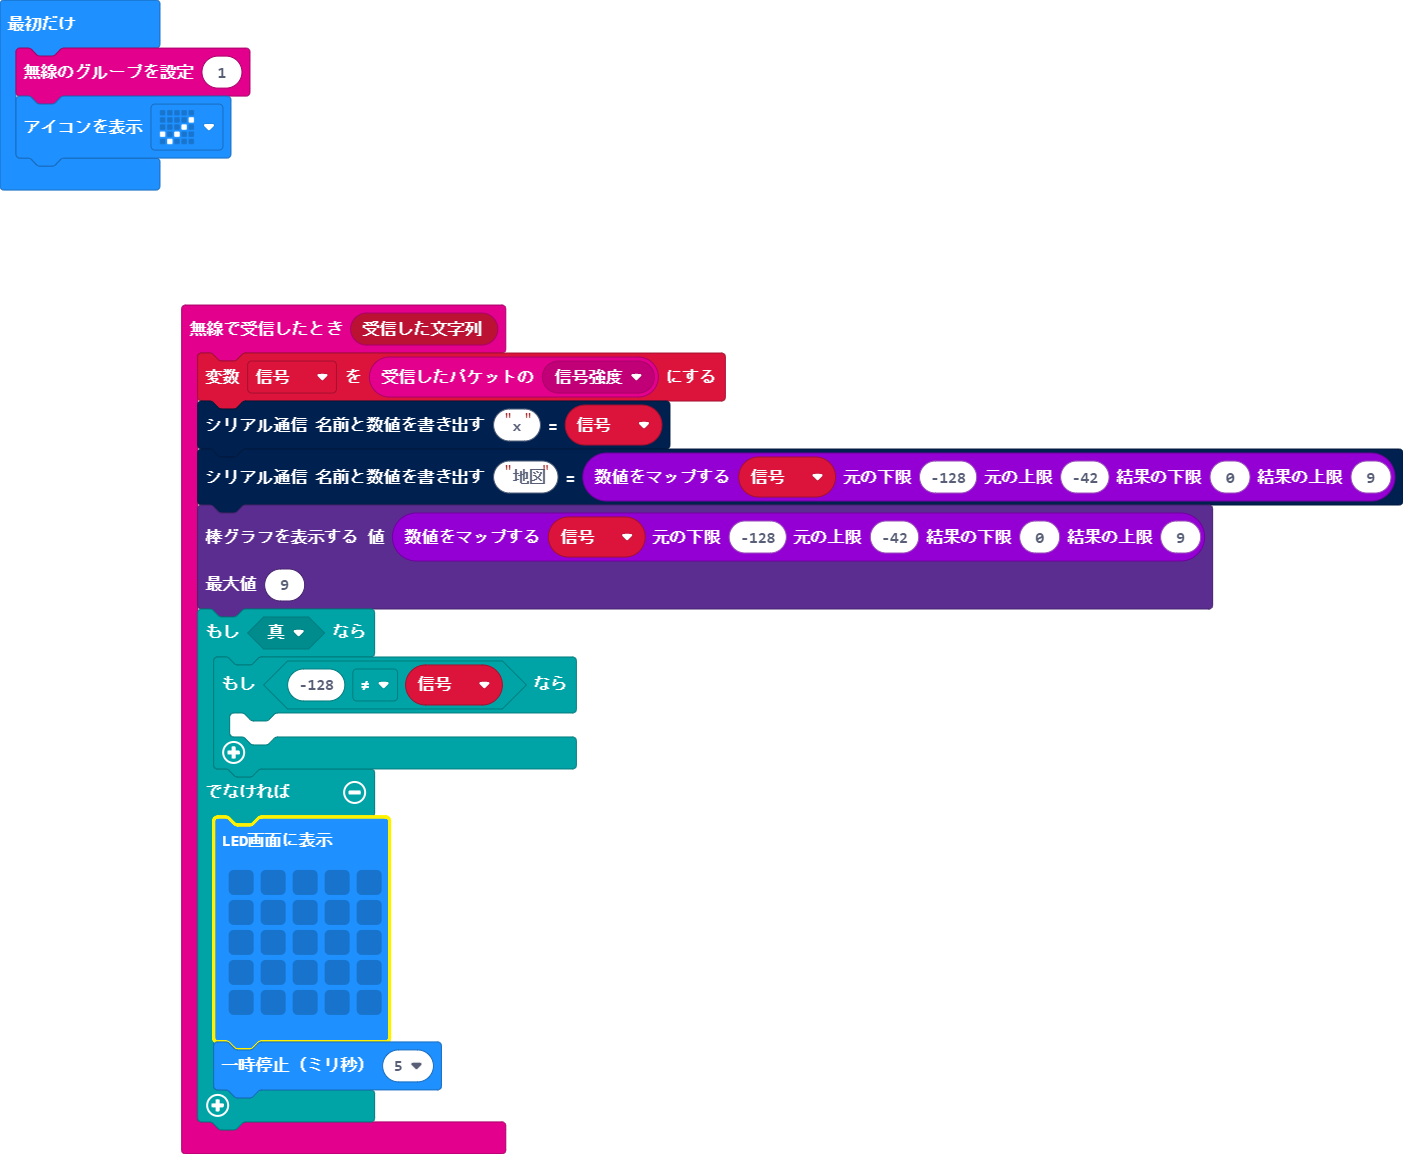
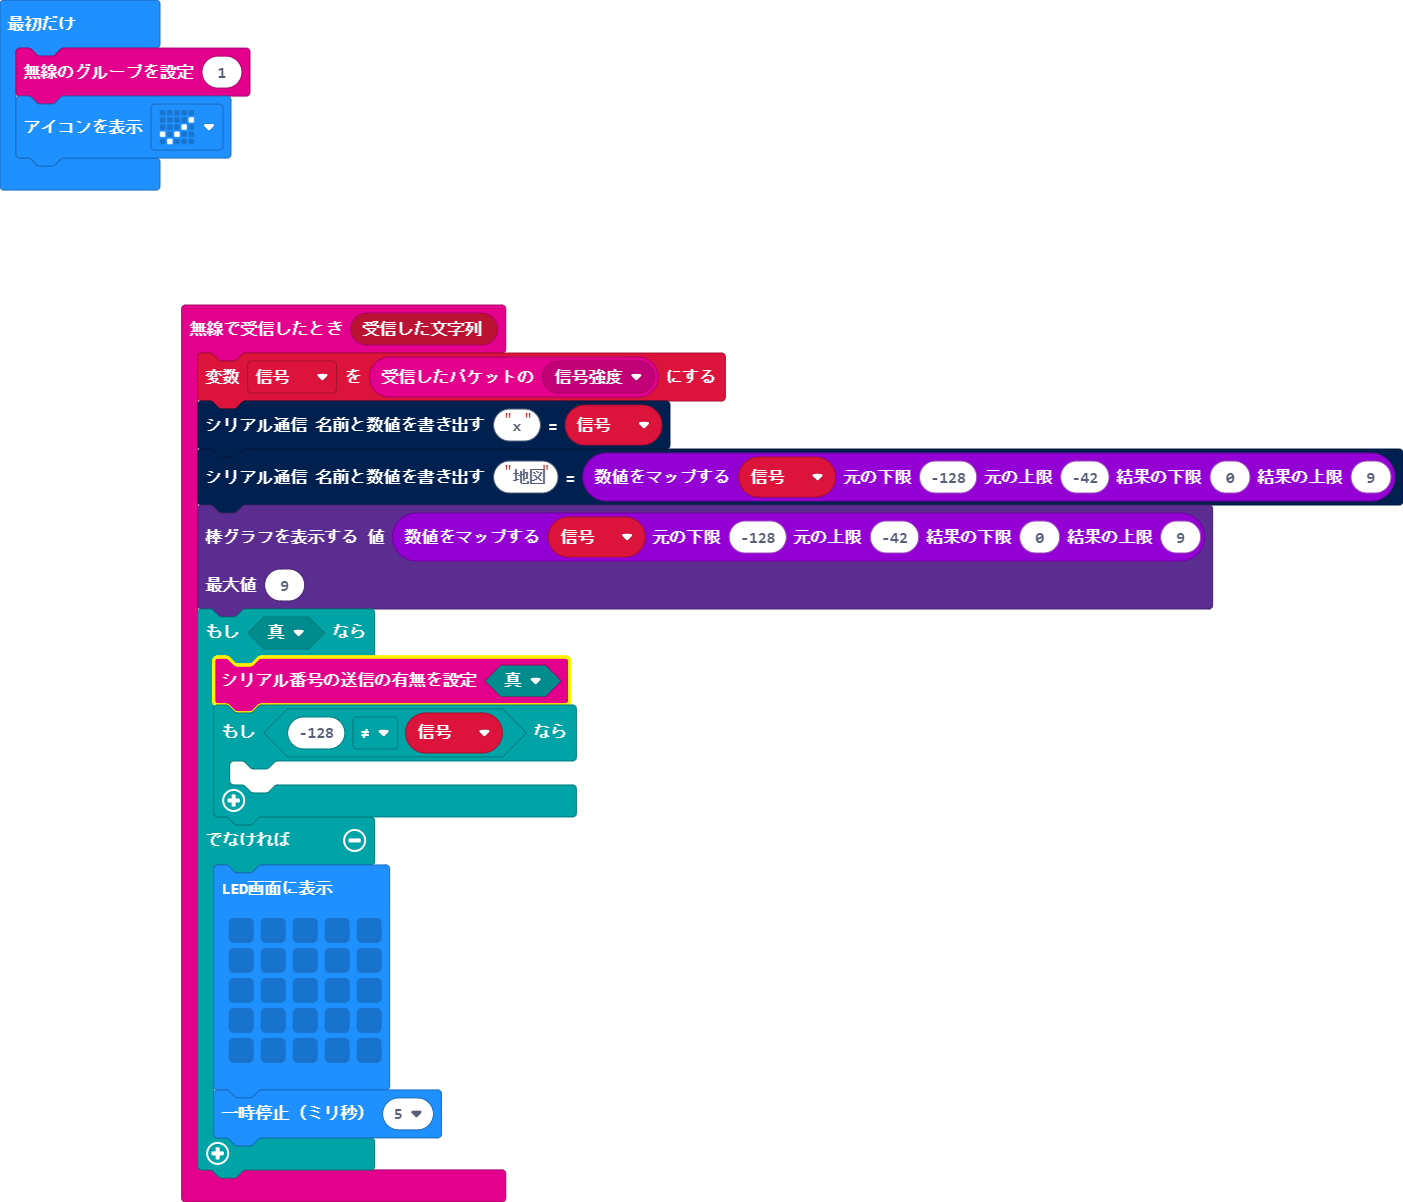
更新 main.blocks, main.ts

Changed region(s): [[0.1226, 0.2496, 1.0, 0.9983], [0.0, 0.0, 0.1839, 0.1872]]

diff --git a/main.ts b/main.ts
@@ -7,6 +7,7 @@ radio.onReceivedString(function (receivedString) {
     9
     )
     if (true) {
+        radio.setTransmitSerialNumber(true)
         if (-128 != signal) {
         	
         }
